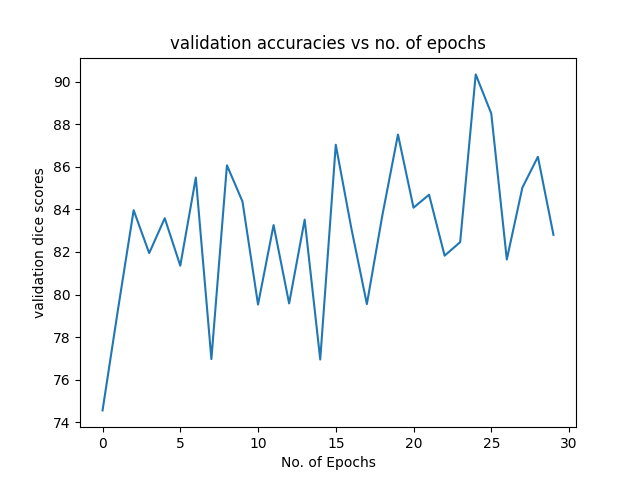
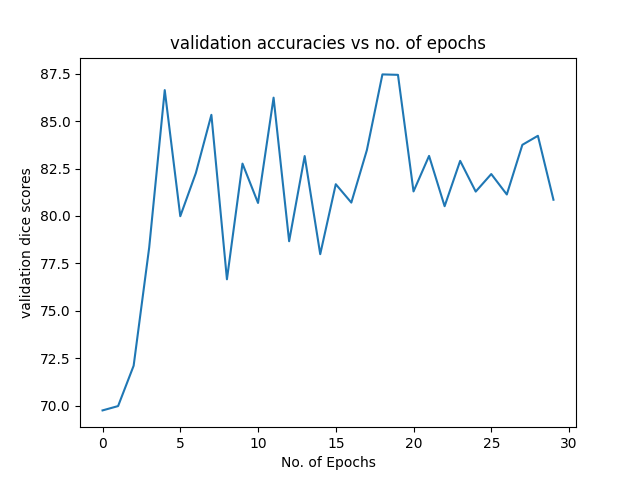
added CBAM module

diff --git a/cbam.py b/cbam.py
@@ -1,0 +1,108 @@
+import torch
+import math
+import torch.nn as nn
+import torch.nn.functional as F
+
+class BasicConv(nn.Module):
+    def __init__(self, in_planes, out_planes, kernel_size, stride=1, padding=0, dilation=1, groups=1, relu=True, bn=True, bias=False):
+        super(BasicConv, self).__init__()
+        self.out_channels = out_planes
+        self.conv = nn.Conv2d(in_planes, out_planes, kernel_size=kernel_size, stride=stride, padding=padding, dilation=dilation, groups=groups, bias=bias)
+        self.bn = nn.BatchNorm2d(out_planes,eps=1e-5, momentum=0.01, affine=True) if bn else None
+        self.relu = nn.ReLU() if relu else None
+
+    def forward(self, x):
+        x = self.conv(x)
+        if self.bn is not None:
+            x = self.bn(x)
+        if self.relu is not None:
+            x = self.relu(x)
+        return x
+
+class Flatten(nn.Module):
+    def forward(self, x):
+        return x.view(x.size(0), -1)
+
+class ChannelGate(nn.Module):
+    def __init__(self, gate_channels, reduction_ratio=16, pool_types=['avg', 'max']):
+        super(ChannelGate, self).__init__()
+        self.gate_channels = gate_channels
+        self.mlp = nn.Sequential(
+            Flatten(),
+            nn.Linear(gate_channels, gate_channels // reduction_ratio),
+            nn.ReLU(),
+            nn.Linear(gate_channels // reduction_ratio, gate_channels)
+            )
+        self.pool_types = pool_types
+    def forward(self, x):
+        channel_att_sum = None
+        for pool_type in self.pool_types:
+            if pool_type=='avg':
+                avg_pool = F.avg_pool2d( x, (x.size(2), x.size(3)), stride=(x.size(2), x.size(3)))
+                channel_att_raw = self.mlp( avg_pool )
+            elif pool_type=='max':
+                max_pool = F.max_pool2d( x, (x.size(2), x.size(3)), stride=(x.size(2), x.size(3)))
+                channel_att_raw = self.mlp( max_pool )
+            elif pool_type=='lp':
+                lp_pool = F.lp_pool2d( x, 2, (x.size(2), x.size(3)), stride=(x.size(2), x.size(3)))
+                channel_att_raw = self.mlp( lp_pool )
+            elif pool_type=='lse':
+                # LSE pool only
+                lse_pool = logsumexp_2d(x)
+                channel_att_raw = self.mlp( lse_pool )
+
+            if channel_att_sum is None:
+                channel_att_sum = channel_att_raw
+            else:
+                channel_att_sum = channel_att_sum + channel_att_raw
+
+        scale = torch.sigmoid( channel_att_sum ).unsqueeze(2).unsqueeze(3).expand_as(x)
+        return x * scale
+
+def logsumexp_2d(tensor):
+    tensor_flatten = tensor.view(tensor.size(0), tensor.size(1), -1)
+    s, _ = torch.max(tensor_flatten, dim=2, keepdim=True)
+    outputs = s + (tensor_flatten - s).exp().sum(dim=2, keepdim=True).log()
+    return outputs
+
+class ChannelPool(nn.Module):
+    def forward(self, x):
+        return torch.cat( (torch.max(x,1)[0].unsqueeze(1), torch.mean(x,1).unsqueeze(1)), dim=1 )
+
+class SpatialGate(nn.Module):
+    def __init__(self):
+        super(SpatialGate, self).__init__()
+        kernel_size = 7
+        self.compress = ChannelPool()
+        self.spatial = BasicConv(2, 1, kernel_size, stride=1, padding=(kernel_size-1) // 2, relu=False)
+    def forward(self, x):
+        x_compress = self.compress(x)
+        x_out = self.spatial(x_compress)
+        scale = torch.sigmoid(x_out) # broadcasting
+        return x * scale
+
+class CBAM(nn.Module):
+    def __init__(self, gate_channels, reduction_ratio=16, pool_types=['avg', 'max'], no_spatial=False):
+        super(CBAM, self).__init__()
+        self.ChannelGate = ChannelGate(gate_channels, reduction_ratio, pool_types)
+        self.no_spatial=no_spatial
+        if not no_spatial:
+            self.SpatialGate = SpatialGate()
+    def forward(self, x):
+        x_out = self.ChannelGate(x)
+        if not self.no_spatial:
+            x_out = self.SpatialGate(x_out)
+        return x_out
+
+def test():
+    x = torch.randn((3, 64, 161, 161))
+    attention = CBAM(gate_channels=64)
+    output = attention(x)
+    print(output.shape)
+    
+    
+
+
+
+if __name__ == "__main__":
+    test()

diff --git a/model.py b/model.py
@@ -4,7 +4,7 @@ import torchvision.transforms.functional as TF
 from torchviz import make_dot
 
 from modules import DoubleConv, Attention_block, InceptionBlock, ResNetBlock
-
+from cbam import CBAM
 
 
 class UNET(nn.Module):
@@ -487,6 +487,80 @@ class ResUNETPlus(nn.Module):
         return output
 
 
+
+class ResUNET_with_CBAM(nn.Module):
+    def __init__(self, in_channels=3, out_channels=1, filters=[64, 128, 256, 512]):
+        super(ResUNET_with_CBAM, self).__init__()
+
+        ## input and encoder blocks
+        self.input_layer = nn.Sequential(
+            nn.Conv2d(in_channels, filters[0], kernel_size=3, padding=1),
+            nn.BatchNorm2d(filters[0]),
+            nn.ReLU(),
+            nn.Conv2d(filters[0], filters[0], kernel_size=3, padding=1),
+        )
+        self.input_skip = nn.Sequential(
+            nn.Conv2d(in_channels, filters[0], kernel_size=3, padding=1)
+        )
+
+
+        self.residual_conv_1 = ResNetBlock(filters[0], filters[1], stride=2, padding=1)
+        self.residual_conv_2 = ResNetBlock(filters[1], filters[2], stride=2, padding=1)
+
+
+        ## bridge
+        self.bridge = ResNetBlock(filters[2], filters[3], stride=2, padding=1)
+
+        ## decoder blocks
+        self.upsample_1 = nn.ConvTranspose2d(filters[3],filters[3], kernel_size=2, stride=2)
+        self.up_residual_conv_1 = ResNetBlock(filters[3]+filters[2],filters[2], stride=1, padding=1)
+        self.cbam_1 = CBAM(gate_channels=filters[3]+filters[2])
+
+        
+
+        self.upsample_2 = nn.ConvTranspose2d(filters[2],filters[2], kernel_size=2, stride=2)
+        self.up_residual_conv_2 = ResNetBlock(filters[2]+filters[1],filters[1], stride=1, padding=1)
+        self.cbam_2 = CBAM(gate_channels=filters[2]+filters[1])
+
+        self.upsample_3 = nn.ConvTranspose2d(filters[1],filters[1], kernel_size=2, stride=2)
+        self.up_residual_conv_3 = ResNetBlock(filters[1]+filters[0],filters[0], stride=1, padding=1)
+        self.cbam_3 = CBAM(gate_channels=filters[1]+filters[0])
+
+        ## output layer
+        self.output_layer = nn.Conv2d(filters[0], out_channels, kernel_size=1, stride=1,)
+
+    def forward(self, x):
+        
+        ## Encoder 
+        x1 = self.input_layer(x) + self.input_skip(x)
+        x2 = self.residual_conv_1(x1)
+        x3 = self.residual_conv_2(x2)
+
+        ## Bridge
+        x4 = self.bridge(x3)
+
+        ## Decoder
+        x4 = self.upsample_1(x4)
+        x5 = torch.cat([x4, x3], dim=1)
+        x5 = self.cbam_1(x5)
+        x6 = self.up_residual_conv_1(x5)
+        
+
+        x6 = self.upsample_2(x6)
+        x7 = torch.cat([x6, x2], dim=1)
+        x7 = self.cbam_2(x7)
+        x8 = self.up_residual_conv_2(x7)
+        
+
+        x8 = self.upsample_3(x8)
+        x9 = torch.cat([x8, x1], dim=1)
+        x9 = self.cbam_3(x9)
+        x10 = self.up_residual_conv_3(x9)
+        
+
+        output = self.output_layer(x10)
+
+        return output
 
 
 class ResUNET_with_GN(nn.Module):

diff --git a/modules.py b/modules.py
@@ -116,12 +116,12 @@ class ResNetBlock(nn.Module):
         super(ResNetBlock, self).__init__()
         
         self.conv_block = nn.Sequential(
-            #nn.BatchNorm2d(in_channels),
-            nn.GroupNorm(num_groups=in_channels//8,num_channels=in_channels),
+            nn.BatchNorm2d(in_channels),
+            #nn.GroupNorm(num_groups=in_channels//8,num_channels=in_channels),
             nn.ReLU(),
             nn.Conv2d(in_channels, out_channels, kernel_size=3, stride=stride, padding=padding),
-            #nn.BatchNorm2d(out_channels)
-            nn.GroupNorm(num_groups=out_channels//8,num_channels=out_channels),
+            nn.BatchNorm2d(out_channels),
+            #nn.GroupNorm(num_groups=out_channels//8,num_channels=out_channels),
             nn.ReLU(),
             nn.Conv2d(out_channels, out_channels, kernel_size=3, stride=1, padding=1),
         )

diff --git a/train.py b/train.py
@@ -6,7 +6,7 @@ import numpy as np
 
 
 from utils import get_loaders, Fit
-from model import UNET, Attention_UNET, Inception_UNET, Inception_Attention_UNET, ResUNET, ResUNETPlus, ResUNET_with_GN
+from model import UNET, Attention_UNET, Inception_UNET, Inception_Attention_UNET, ResUNET, ResUNETPlus, ResUNET_with_GN, ResUNET_with_CBAM
 #from focal_loss import FocalLoss
 from lookahead import Lookahead
 from dense_unet import DenseUNet
@@ -70,8 +70,8 @@ def main():
     #loss_fn = FocalLoss()
 
     
-    print("Deep Residual UNET with GN")
-    model = ResUNET_with_GN(in_channels=3, out_channels=1)
+    print("Deep Residual UNET with CBAM")
+    model = ResUNET_with_CBAM(in_channels=3, out_channels=1)
     model.to(device=DEVICE)
     optimizer = optim.Adam(model.parameters(), lr=LEARNING_RATE,)
     #lookahead = Lookahead(optimizer, k=3, alpha=0.6) 
